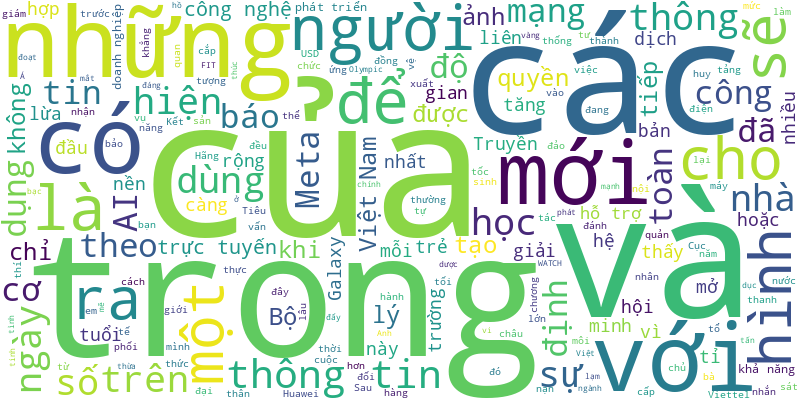
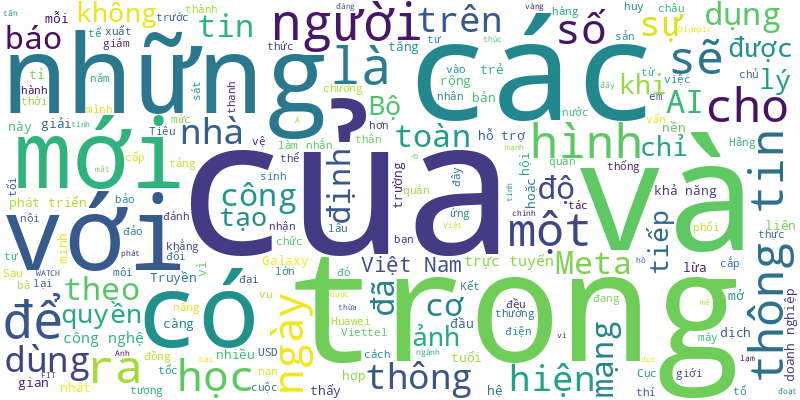
🍀 = 10%

diff --git a/README.md b/README.md
@@ -1,6 +1,21 @@
 # Tuoi Tre RSS 
 
 ## Giáo dục 
+- Sau khi phúc khảo, điểm môn toán của một thí sinh thi vào Trường THPT chuyên Lam Sơn (Thanh Hóa) tăng từ 1 lên 9 điểm. Nguyên nhân do lỗi ở quá trình nhập điểm, trách nhiệm thuộc về bộ phận lên điểm.
+- Đến nay các trường đại học đào tạo khối ngành y dược ở TP.HCM đều đã công bố mức thu học phí năm học 2024 - 2025 hầu hết đều tăng so với năm trước.
+- Ngày mai (5-6), hơn 98.600 thí sinh sẽ làm thủ tục dự thi vào lớp 10 tại TP.HCM năm học 2024-2025.
+- Ngày 3-6, UBND TP Hải Phòng thông tin kết quả điều tra vụ việc trẻ mầm non của Trường mầm non An Dương, quận Lê Chân bị bầm tím lưng.
+- Phó thủ tướng Trần Hồng Hà vừa ký quyết định thành lập Trường đại học Khoa học sức khỏe (Đại học Quốc gia TP.HCM).
+- Lãnh đạo UBND huyện Phúc Thọ (Hà Nội) cho hay do mưa nhiều, phần gạch vữa của nhà văn hóa bị tróc, đổ sập xuống sân khấu khiến 6 trẻ bị thương nhẹ, một số em phải vào viện sơ cứu.
+- TP Cần Thơ có 17.400 học sinh lớp 9, nhưng chỉ 14.614 em đăng ký dự thi vào lớp 10 công lập.
+- Cơ quan chức năng tại TP.HCM sẽ tăng cường kiểm tra để đảm bảo an toàn đối với hoạt động đưa rước học sinh.
+- Phụ huynh Trường tiểu học Hanh Thông (quận Gò Vấp, TP.HCM) phản ảnh việc trường không khen thưởng cho học sinh đoạt giải cấp quận, cấp TP. Đến khi phụ huynh thắc mắc, trường mới bổ sung khi đã nghỉ hè.
+- Trong kỳ thi đánh giá năng lực đợt 2 ngày 2-6, một thí sinh tại TP.HCM mất thẻ căn cước công dân đã xuất trình VNeID định danh cấp độ 2, nhưng không được chấp nhận cho vào thi.
+- Áp lực ngày càng tăng đối với trẻ em Trung Quốc dẫn tới sự ra đời của một nghề mới: Bạn đồng hành cùng sự phát triển của trẻ. Thu nhập cho nghề 'siêu gia sư' này có thể lên tới 60.000 nhân dân tệ/tháng.
+- Năm 2024 sẽ có hơn 21.000 thí sinh không đậu vào lớp 10 công lập tại TP.HCM. Đó là chưa kể hơn 16.000 thí sinh không đăng ký dự thi lớp 10.
+- Trong 3 trường THCS thì Trường THCS Hoa Lư, TP Thủ Đức có số thí sinh dự tuyển vào lớp 6 cao nhất là 1.116 em.
+- Trưa 3-6, gần 16.500 thí sinh thi vào lớp 10 ở Đà Nẵng đã hoàn thành xong bài thi môn toán. Đề toán năm nay được nhiều thí sinh đánh giá có độ phân hóa cao.
+- Điều tra độc quyền của Tuổi Trẻ phát hiện trong bảng xếp hạng 'nhà khoa học hàng đầu thế giới' của Research.com, nhiều người có bài báo khoa học bị gỡ, tên ông A nhưng hình ông B, nam biến thành nữ...
 - Chiều 2-6, nhiều thí sinh rời phòng thi trong tâm trạng khá thoải mái sau khi kết thúc hai môn thi đầu tiên của kỳ thi tuyển sinh vào lớp 10 Đà Nẵng.
 - Ngày 2-6 tại Hà Nội diễn ra lễ tổng kết và trao giải quốc gia Cuộc thi vô địch thiết kế đồ họa thế giới ACP mùa giải 2024.
 - Tại kỳ thi tuyển sinh vào lớp 10 Đà Nẵng, có một số thí sinh vừa phẫu thuật, vừa bị tai nạn giao thông… được bố trí phòng thi đặc biệt.
@@ -16,53 +31,38 @@
 - Mẹ và con là bạn học Trường Yale. Tuần trước bà Vanessa Landegger, 50 tuổi, tốt nghiệp chương trình đào tạo điều dưỡng điều trị tại Trường Yale - nơi con trai bà cũng đang là sinh viên năm thứ nhất.
 - Thí sinh đến từ các nơi trên thế giới có thể đăng ký tham gia Cuộc thi Piano SIU mùa 2 (SIU Piano Competition 2024) đến hết ngày 9/6.
 - Giữa cơn sốt "học sinh xuất sắc" xuất phát từ kỳ vọng, mong đợi của nhiều bậc phụ huynh, lại có những tấm giấy khen lạ đời.
-- Kỳ thi đánh giá năng lực Đại học Quốc gia TP.HCM đợt 2 năm 2024 sẽ diễn ra vào sáng mai (2-6), tại 14 tỉnh thành với 34 cụm thi.
-- Vụ trẻ mầm non tử vong do bị bỏ quên trên xe đưa đón một lần nữa gióng lên hồi chuông về trách nhiệm của các bên liên quan khi để xảy ra chuyện đau lòng.
-- Một số tin tức đáng chú ý: Chính phủ yêu cầu đánh giá tác hại thuốc lá điện tử; TP.HCM đề xuất hỗ trợ giáo viên môn khó tuyển; Thảo cầm viên tặng quà Tết Thiếu nhi...
-- Năm 2024, Đại học Quốc gia Hà Nội tuyển sinh 18.000 chỉ tiêu cho 150 ngành/chương trình đào tạo, tăng hơn 3.000 chỉ tiêu và 7 ngành/chương trình đào tạo so với năm ngoái.
-- Sau 15-6, nếu nhà đầu tư không đáp ứng các điều kiện hoạt động, Sở Giáo dục và Đào tạo TP.HCM sẽ tham mưu UBND TP quyết định đình chỉ hoạt động Trường quốc tế Mỹ.
-- Tổ chức Children of Vietnam sẽ hỗ trợ hơn 17 tỉ đồng cho Huế để xây phòng học vùng cao, cấp học bổng cho học sinh nghèo, mua máy lọc nước…
-- So với năm trước, số thí sinh chọn bài thi khoa học xã hội tăng 7,7%. Kỳ thi tốt nghiệp THPT năm 2024 sẽ diễn ra từ ngày 26 đến 28-6.
-- Trường đại học Quốc tế miền Đông tại Bình Dương tiếp tục có nhiều hoạt động nổi bật với các ngành học mới đạt chất lượng kiểm định và mở rộng hợp tác doanh nghiệp.
-- Chuyên gia cho rằng việc trẻ mầm non bị bỏ quên trên xe đưa đón hoàn toàn lỗi của người lớn.
-- Chương trình diễn ra sáng 31-5 tại Trường đại học Fulbright Việt Nam trong khuôn khổ Dự án tác động xã hội Đông Nam Á (ASIP) do Cơ quan Phát triển quốc tế Mỹ (USAID) tài trợ.
-- Liên quan vụ việc bé trai 5 tuổi chết vì bị bỏ quên trên xe đưa đón, Cơ quan cảnh sát điều tra Công an thành phố Thái Bình khởi tố thêm tài xế và 2 nữ giáo viên.
-- Sau khi đóng tủ xong, hiệu trưởng mới mời hội phụ huynh đến ký hợp đồng, biên bản bàn giao, biên bản thanh lý.
-- Cô giáo trẻ vừa đi làm 4 năm, lương đúng nghĩa ba cọc ba đồng, nhưng cô luôn dành một phần để mua quà khen tặng học sinh.
-- Khai giảng nhiều khóa trước cả thi tốt nghiệp THPT, kết nối mạnh với doanh nghiệp và hiệp hội các nước để cung ứng nguồn lao động 'xuyên biên giới'... nhiều trường nghề cho thấy bức tranh tươi mới trong mùa tuyển sinh 2024.
-- Ở một số nước, dù chưa xảy ra chuyện đau lòng như Việt Nam nhưng việc xử lý rất nghiêm khắc.
 ![Edu](Edu.png)
 ## Thời Sự 
-- Ba dự án cao tốc kết nối TP.HCM với Bình Dương và các tỉnh Đông Nam Bộ được thúc đẩy sẽ tạo động lực mới để thu hút đầu tư.
-- Từ ngày 3 đến 8-6, kỳ họp 7 của Quốc hội bước vào tuần làm việc thứ 3 và cũng là tuần làm việc cuối cùng của đợt 1. Trọng tâm của tuần này là Quốc hội dành 2,5 ngày cho việc chất vấn và trả lời chất vấn với 4 nhóm vấn đề.
-- Tin tức đáng chú ý: Quốc hội họp tuần cuối đợt 1, sẽ chất vấn 4 'tư lệnh' ngành; Sớm đưa 2 vắc xin ngừa HPV và phế cầu vào tiêm chủng mở rộng...
-- Hôm nay 3-6, thời tiết Nam Bộ ngày nắng, chiều mưa rào, một số nơi khác ở Trung Bộ, Bắc Bộ nắng nóng.
-- Quảng Bình vừa kỷ niệm 420 năm hình thành tỉnh. Tại buổi lễ, Thủ tướng Phạm Minh Chính muốn tỉnh này phát huy khí phách “Quảng Bình quật khởi”.
-- Sau mỗi mùa hạn mặn, người lao động ở Đồng bằng sông Cửu Long lại ly hương để đến TP.HCM, Bình Dương, Đồng Nai… tìm việc làm. Vì sao như vậy?
-- Thượng tướng Nguyễn Duy Ngọc, thứ trưởng Bộ Công an, vừa có thư khen gửi giám đốc Công an TP.HCM đã chủ trì, phối hợp công an 18 tỉnh, thành triệt xóa 2 hội nhóm trên mạng mua bán vũ khí, vật liệu nổ.
-- Trong 5 năm (2019-2023), Kiểm toán Nhà nước đã chuyển 19 vụ việc có dấu hiệu vi phạm pháp luật qua kiểm toán cho cơ quan cảnh sát điều tra xem xét xử lý.
-- Thời gian gần đây khách hàng mua đất liền kề ngã ngửa vì biết những lô đất nộp tiền cọc từ nhiều năm trước vẫn đang được quy hoạch là đất biệt thự.
-- Thủ tướng Phạm Minh Chính thăm và kiểm tra một số công trình trọng điểm tại Quảng Bình nhân kỷ niệm 420 năm hình thành tỉnh.
-- Giai đoạn 2019-2023 đã hỗ trợ xây mới, sửa chữa trên 6.614 căn nhà với tổng kinh phí hơn 293 tỉ đồng.
-- Dự án khu phức hợp Hòa Bình Green Đà Nẵng của công ty ông Nguyễn Hữu Đường (đại gia Đường 'bia') xây sai phép từ năm 2019.
-- Khu vực xung quanh và chợ Bến Thành sẽ được cải tạo lại hứa hẹn thành một điểm đến thu hút của TP.HCM trong thời gian tới.
-- Ngày 2-6, UBND tỉnh Đồng Nai vừa có văn bản gửi Ủy ban Thường vụ Quốc hội về việc xử lý nguồn đất đắp từ dự án sân bay Long Thành phục vụ thi công tuyến đường cao tốc Biên Hòa - Vũng Tàu.
-- Dù UBND TP.HCM đã chỉ đạo các đơn vị liên quan xử lý các điểm đen rác thải mà báo chí phản ánh, thực tế tình hình vẫn không có nhiều thay đổi.
-- Tài xế là sĩ quan một đơn vị quân đội, vi phạm nồng độ cồn, lái xe bỏ chạy sau khi xảy ra tai nạn giao thông khiến một phụ nữ bị thương.
-- Bộ trưởng Nguyễn Văn Hùng đề xuất xây dựng chính sách với viên chức lĩnh vực nghệ thuật biểu diễn thuộc danh mục nghề, công việc nặng nhọc, độc hại, nguy hiểm.
-- Tuyến đường BOT ở Đồng Nai vừa giặm vá đã hư hỏng, mặt đường đầy ổ gà, ổ voi như bẫy người đi đường.
-- Bộ trưởng Nguyễn Văn Hùng đánh giá tiền lương vận động viên thể thao thấp dẫn tới khó khăn trong thực hiện chính sách đãi ngộ, thu hút nhân tài.
-- Ông Nguyễn Văn Nhưỡng - nguyên chủ tịch UBND xã Bãi Thơm (TP Phú Quốc) và Trần Quốc Anh - cán bộ địa chính xã này - vừa bị công an bắt.
-- Tuần này, thời tiết Bắc Bộ và Nam Bộ duy trì mưa, có nơi mưa to; Trung Bộ nắng nóng.
-- Giải thích biển báo trên cao tốc bị hư hỏng do biến đổi khí hậu khiến nhiều người ngạc nhiên. Chuyên gia nói gì về chuyện này?
-- Một kho đồ nhựa và đồ gia dụng ở thôn Võ Kiện (xã Diên An, huyện Diên Khánh, tinh Khánh Hòa) cháy sáng 2-6 khiến một vùng trời ngập khói đen.
-- Sáng 2-6, Công an Đà Lạt cho biết đã tìm thấy thi thể người quanh khu vực phát hiện chân người trước đó.
-- Từ cổng trường học đến quán nước vỉa hè, quán cà phê... không khó để bắt gặp những làn khói trắng xóa, đầy hương thơm của thuốc lá điện tử.
-- Một số tin tức đáng chú ý: Công ty đầu tư nhà ở xã hội vay trái phiếu lãi suất khủng vừa báo lỗ; Chi trả trên 3.500 tỉ đồng lương hưu, trợ cấp BHXH cho người dân ở Hà Nội; Hơn 6 triệu trẻ em được bổ sung vitamin A...
-- Sau một ngày thời tiết nắng nóng dịu bớt, hôm nay Trung Bộ nắng nóng trở lại. Nam Bộ, Bắc Bộ có mưa dông.
-- Tối 1-6, tại Cung Thể thao Tiên Sơn, Đà Nẵng diễn ra lễ khai mạc Đại hội Thể thao học sinh Đông Nam Á lần thứ 13.
-- Sở Giao thông vận tải TP.HCM đề xuất mở rộng đoạn đường dẫn cao tốc TP.HCM - Long Thành đoạn từ nút giao An Phú đến đường vành đai 2 lên 8 làn.
-- Chiếc xe đầu kéo chở hàng đang chạy trên quốc lộ 3 (tỉnh Cao Bằng) bất ngờ bị lật thùng hàng, đè lên xe tải nhỏ đi chiều ngược lại khiến tài xế mắc kẹt tử vong.
+- Sáng 4-6, ông Đặng Quốc Khánh lần đầu trả lời chất vấn trước Quốc hội kể từ khi nhận nhiệm vụ Bộ trưởng Tài nguyên và Môi trường.
+- Sáng 4-6, Bộ trưởng Bộ Tài nguyên và Môi trường Đặng Quốc Khánh là thành viên Chính phủ đầu tiên 'đăng đàn' trả lời chất vấn tại Quốc hội.
+- Hôm nay 4-6, thời tiết Bắc Bộ mưa tăng; Trung Bộ vẫn duy trì nắng nóng; Nam Bộ ngày nắng, chiều tối mưa rào.
+- Một số tin tức đáng chú ý: Garmex Sài Gòn lại rao bán đất; Thu gần 56.000 tỉ đồng từ cấp quyền khai thác khoáng sản; Thanh tra đột xuất về BHXH tại 1.000 đơn vị…
+- Ban Thường vụ Tỉnh ủy Nghệ An đã thi hành kỷ luật ông Doãn Tiến Dũng - phó bí thư Thị ủy, chủ tịch UBND thị xã Cửa Lò - bằng hình thức khai trừ ra khỏi Đảng.
+- Ngày 3-6, UBND TP Hải Phòng thông tin kết quả điều tra vụ việc trẻ mầm non của Trường mầm non An Dương, quận Lê Chân bị bầm tím lưng.
+- Đại biểu đề xuất bố trí xe dẫn đường với nguyên Tổng bí thư, nguyên Chủ tịch nước, nguyên Thủ tướng, nguyên Chủ tịch Quốc hội khi đi dự sự kiện quan trọng.
+- Lãnh đạo UBND huyện Phúc Thọ (Hà Nội) cho hay do mưa nhiều, phần gạch vữa của nhà văn hóa bị tróc, đổ sập xuống sân khấu khiến 6 trẻ bị thương nhẹ, một số em phải vào viện sơ cứu.
+- UBND TP.HCM vừa yêu cầu UBND quận 1 và các sở ngành hoàn tất thủ tục để khởi công cải tạo cảnh quan trước chợ Bến Thành vào ngày 1-10, hoàn thành trước 30-4-2025.
+- Cán bộ, chiến sĩ Vùng Cảnh sát biển 4 phát hiện và bắt giữ tàu cá đang vận chuyển khoảng 200.000 lít dầu DO trái phép trên vùng biển Tây Nam.
+- Bạn đọc Mạnh Quang phản ánh, sau thời gian tạm lắng, sân bay Tân Sơn Nhất lại tái diễn cảnh chèo kéo khách.
+- Ngày 3-6, Bộ Chỉ huy quân sự tỉnh Gia Lai cho biết đang tổ chức xử lý kỷ luật quân nhân vi phạm nồng độ cồn, lái xe bỏ chạy sau tai nạn giao thông.
+- Ngày 3-6, Công an TP Biên Hòa, Đồng Nai vừa có báo cáo kết quả kiểm tra phòng cháy chữa cháy tại các chung cư lớn trên địa bàn.
+- Tàu cá Quảng Bình đang đánh cá ở vùng biển ngoài khơi quần đảo Hoàng Sa thì lốc xoáy đánh chìm. Bốn thuyền viên trên tàu sống sót nhờ tàu bạn cứu.
+- Trong lúc đang làm công an xã, bị cáo Nguyễn Thị Mỹ Xuyên đã lừa nhiều người, trong đó có cả cô giáo của con mình để lấy tiền trả nợ.
+- ''Các hoạt động rất ý nghĩa, không lý gì thành phố không hỗ trợ', ông Nguyễn Văn Dũng - phó chủ tịch UBND TP.HCM - chia sẻ, sau khi lắng nghe báo cáo về công tác chuẩn bị 'Lễ hội không tiền mặt' 2024.
+- Về việc phân định sử dụng kinh phí công đoàn 2%, dự thảo Luật Công đoàn sửa đổi đã đề xuất hai phương án.
+- Liên quan tuyến đường BOT gần trung tâm Biên Hòa hư hỏng nặng, ô tô sụp ổ gà phải gọi xe cẩu nâng lên, chủ đầu tư đã phản hồi Tuổi Trẻ Online.
+- Hiện mây dông đang phát triển và mở rộng về phía trung tâm Hà Nội, cơ quan khí tượng cảnh báo mưa dông trong giờ tan tầm ở các quận nội thành.
+- Thanh tra tỉnh Lâm Đồng cho biết đơn vị này không đồng ý thanh tra toàn diện Đường hầm đất sét Đà Lạt theo đề xuất của Cục Thuế tỉnh Lâm Đồng.
+- Do chưa thống nhất về tên gọi sau sắp xếp nên tỉnh Nghệ An sẽ đề nghị chưa sáp nhập xã Quỳnh Đôi - quê hương Bà chúa thơ Nôm.
+- 6 dự án đầu tư công từ ngân sách trung ương năm 2023 tại tỉnh Gia Lai bị cắt vốn, không được cho gia hạn sang năm 2024 vì giải ngân không đạt tiến độ.
+- Chiều 3-6, thông tin từ Sở Thông tin và Truyền thông tỉnh Thừa Thiên Huế cho biết sở thực hiện xử lý nghiêm đối với những người đưa thông tin sai lệch về sự việc ông Lê Anh Tú (Thích Minh Tuệ) tại xã Hương Thọ (thành phố Huế).
+- Viên gạch ốp tường đã rơi trúng đầu một trẻ 2 tuổi tại khu vực sảnh chung cư FLC Garden (phường Đại Mỗ, quận Nam Từ Liêm, Hà Nội) sáng 3-6.
+- Đây là phần mềm mà Cục cảnh sát quản lý hành chính về trật tự xã hội phối hợp với Giáo hội Phật giáo Việt Nam vừa triển khai thí điểm.
+- Cơ quan công an đang vào cuộc điều tra, truy tìm người vứt hàng chục con heo chết xuống khu vực sông Ngàn Trươi (huyện Vũ Quang, tỉnh Hà Tĩnh).
+- Học viên thi giấy phép lái xe sau ngày 1-5, có thể đến tháng 8 mới được cấp giấy phép, do thiếu vật liệu in.
+- Bộ Công an nêu rõ dự thảo luật đã giới hạn rõ các trường hợp cấp thiết mà bộ trưởng Bộ Công an được quyết định áp dụng biện pháp cảnh vệ.
+- Thêm 1 con rùa biển vừa lên bãi biển xã Nhơn Hải (TP Quy Nhơn, tỉnh Bình Định) làm ổ, đẻ 102 trứng. Người dân địa phương sẽ bảo vệ ổ trứng cho đến khi rùa nở.
+- Lập khống các hồ sơ quyết toán, lạm thu tiền học sinh, hiệu trưởng và kế toán trường học ở huyện miền núi Nghệ An bị khởi tố, bắt tạm giam.
 ![New](News.png)
 ## Nhịp sống số 
 - 7 thí sinh Việt Nam đều đoạt giải Olympic tin học châu Á, trong đó có 1 huy chương vàng, 6 huy chương bạc.
